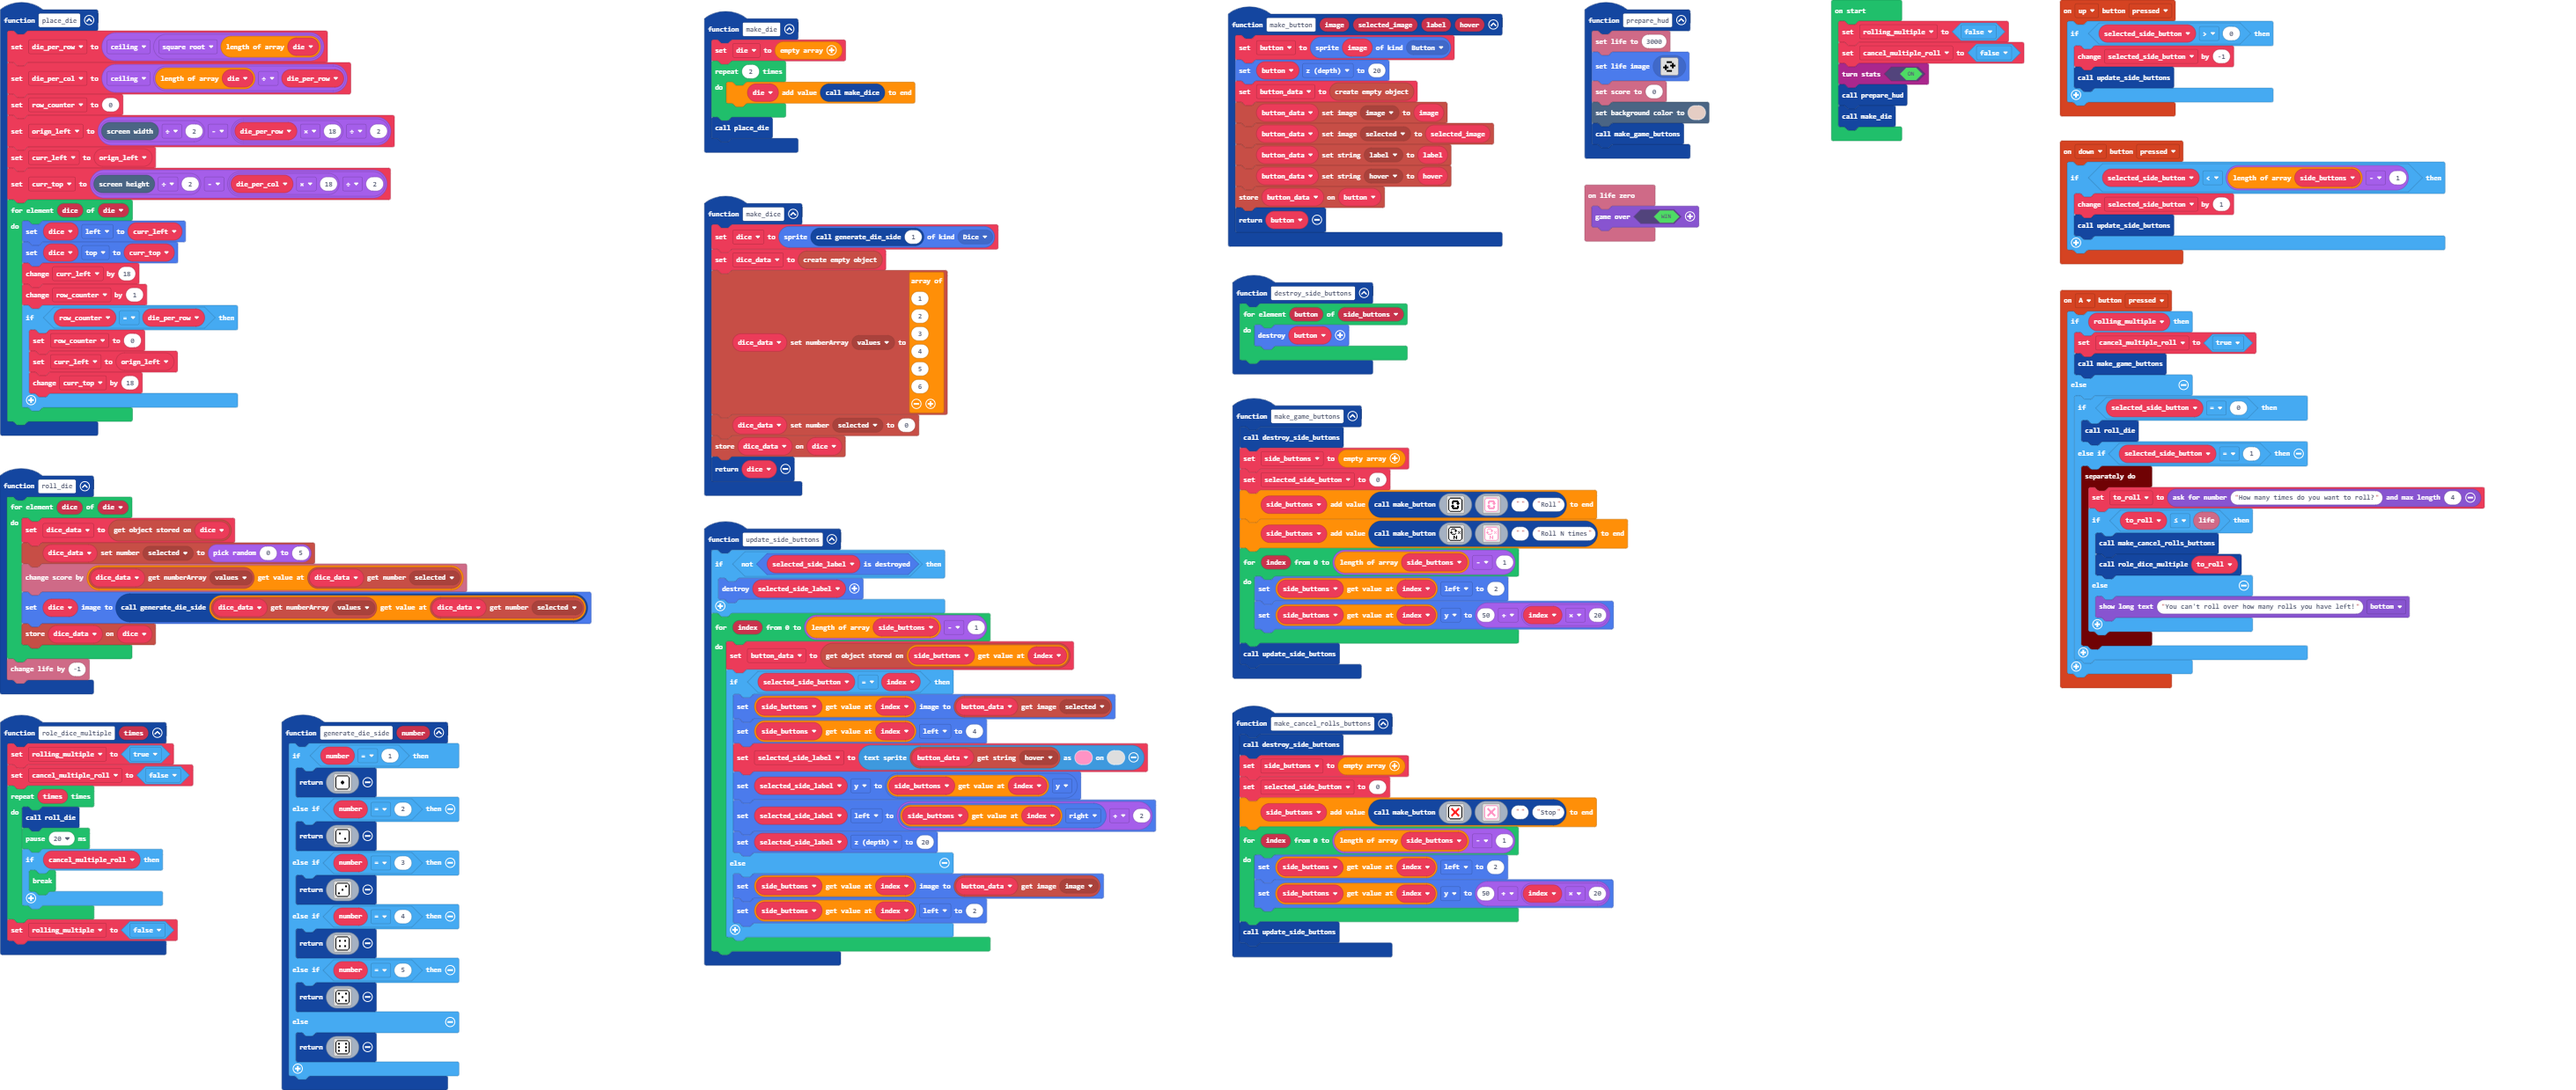
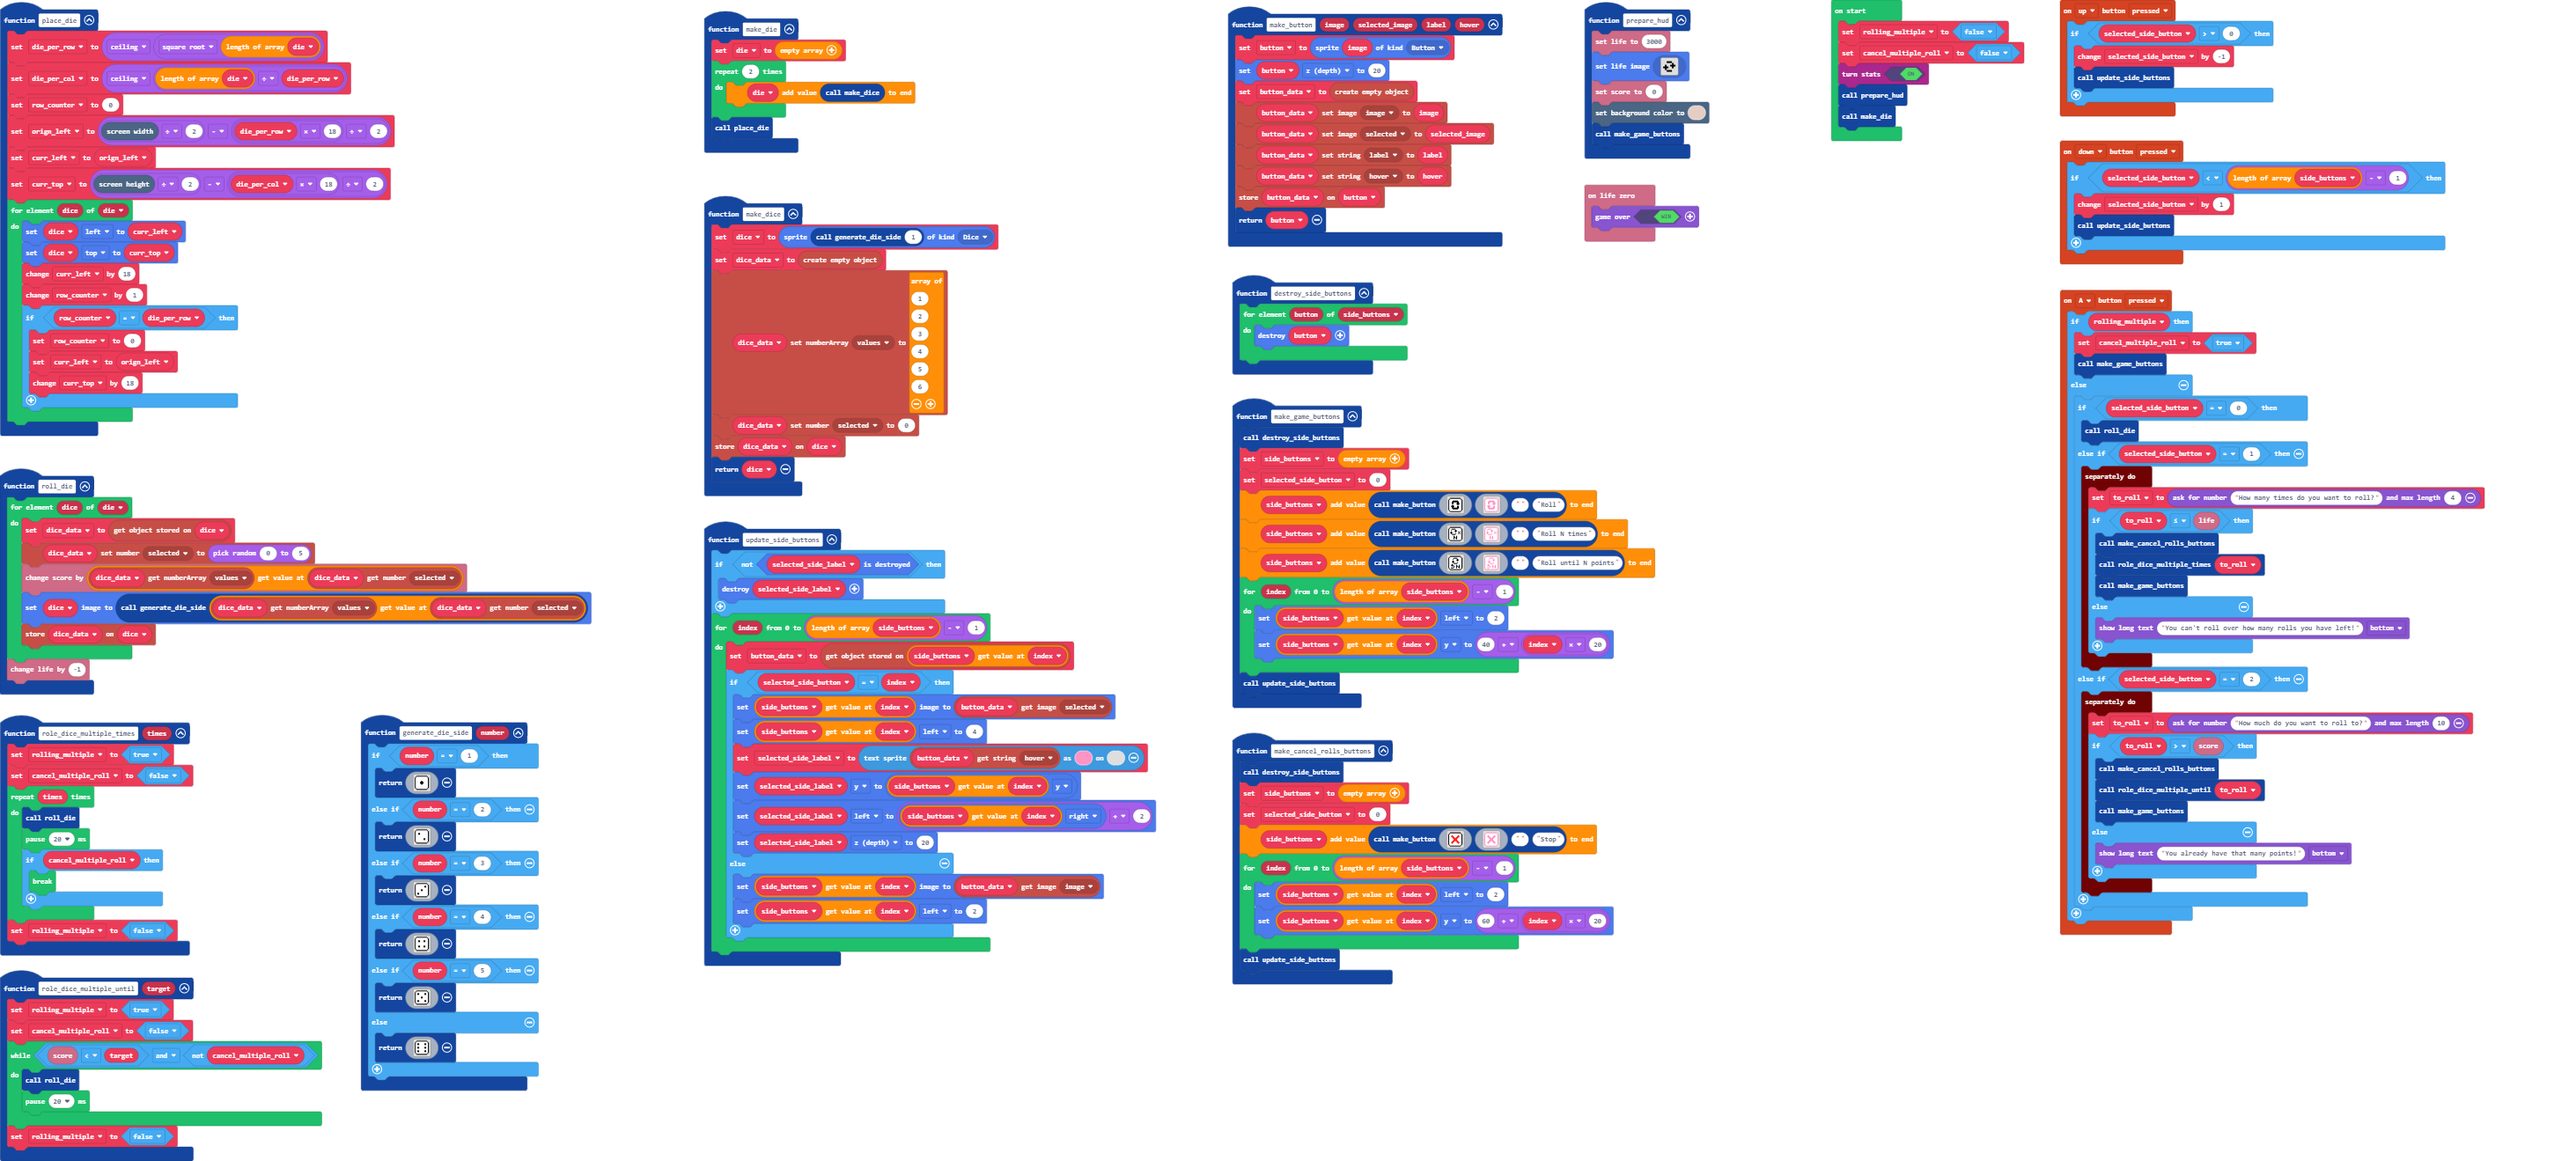
Can roll until certain point amount

Changed region(s): [[0.0, 0.0, 0.6842, 1.0], [0.7153, 0.0, 0.9641, 0.8281]]

diff --git a/main.ts b/main.ts
@@ -51,18 +51,6 @@ function roll_die () {
     }
     info.changeLifeBy(-1)
 }
-function role_dice_multiple (times: number) {
-    rolling_multiple = true
-    cancel_multiple_roll = false
-    for (let index = 0; index < times; index++) {
-        roll_die()
-        pause(20)
-        if (cancel_multiple_roll) {
-            break;
-        }
-    }
-    rolling_multiple = false
-}
 controller.A.onEvent(ControllerButtonEvent.Pressed, function () {
     if (rolling_multiple) {
         cancel_multiple_roll = true
@@ -75,9 +63,21 @@ controller.A.onEvent(ControllerButtonEvent.Pressed, function () {
                 to_roll = game.askForNumber("How many times do you want to roll?", 4)
                 if (to_roll <= info.life()) {
                     make_cancel_rolls_buttons()
-                    role_dice_multiple(to_roll)
+                    role_dice_multiple_times(to_roll)
+                    make_game_buttons()
                 } else {
                     game.showLongText("You can't roll over how many rolls you have left!", DialogLayout.Bottom)
+                }
+            })
+        } else if (selected_side_button == 2) {
+            timer.background(function () {
+                to_roll = game.askForNumber("How much do you want to roll to?", 10)
+                if (to_roll > info.score()) {
+                    make_cancel_rolls_buttons()
+                    role_dice_multiple_until(to_roll)
+                    make_game_buttons()
+                } else {
+                    game.showLongText("You already have that many points!", DialogLayout.Bottom)
                 }
             })
         }
@@ -105,7 +105,7 @@ function make_cancel_rolls_buttons () {
     side_buttons.push(make_button(assets.image`cancel_rolls_button`, assets.image`cancel_rolls_selected_button`, "", "Stop"))
     for (let index = 0; index <= side_buttons.length - 1; index++) {
         side_buttons[index].left = 2
-        side_buttons[index].y = 50 + index * 20
+        side_buttons[index].y = 60 + index * 20
     }
     update_side_buttons()
 }
@@ -115,9 +115,10 @@ function make_game_buttons () {
     selected_side_button = 0
     side_buttons.push(make_button(assets.image`roll_button`, assets.image`roll_button_selected`, "", "Roll"))
     side_buttons.push(make_button(assets.image`roll_x_times_button`, assets.image`roll_x_times_button_selected`, "", "Roll N times"))
+    side_buttons.push(make_button(assets.image`roll_until_button`, assets.image`roll_until_button_selected`, "", "Roll until N points"))
     for (let index = 0; index <= side_buttons.length - 1; index++) {
         side_buttons[index].left = 2
-        side_buttons[index].y = 50 + index * 20
+        side_buttons[index].y = 40 + index * 20
     }
     update_side_buttons()
 }
@@ -127,6 +128,18 @@ function prepare_hud () {
     info.setScore(0)
     scene.setBackgroundColor(13)
     make_game_buttons()
+}
+function role_dice_multiple_times (times: number) {
+    rolling_multiple = true
+    cancel_multiple_roll = false
+    for (let index = 0; index < times; index++) {
+        roll_die()
+        pause(20)
+        if (cancel_multiple_roll) {
+            break;
+        }
+    }
+    rolling_multiple = false
 }
 function make_die () {
     die = []
@@ -172,6 +185,15 @@ controller.down.onEvent(ControllerButtonEvent.Pressed, function () {
         update_side_buttons()
     }
 })
+function role_dice_multiple_until (target: number) {
+    rolling_multiple = true
+    cancel_multiple_roll = false
+    while (info.score() < target && !(cancel_multiple_roll)) {
+        roll_die()
+        pause(20)
+    }
+    rolling_multiple = false
+}
 info.onLifeZero(function () {
     game.over(true)
 })

diff --git a/images.g.ts b/images.g.ts
@@ -261,6 +261,44 @@ f 1 1 1 1 1 1 1 1 1 1 1 1 1 1 f
 . 3 1 1 1 1 1 1 1 1 1 1 1 1 3 . 
 . . 3 3 3 3 3 3 3 3 3 3 3 3 . . 
 `;
+            case "image15":
+            case "roll_until_button":return img`
+. . f f f f f f f f f f f f . . 
+. f 1 1 1 1 1 1 1 1 1 1 1 1 f . 
+f 1 1 1 1 1 f f f f 1 1 1 1 1 f 
+f 1 1 1 1 f 1 1 1 1 f 1 1 1 1 f 
+f 1 1 1 1 1 1 1 1 f f f 1 1 1 f 
+f 1 1 1 1 f 1 1 1 1 f 1 1 1 1 f 
+f 1 1 1 f f f 1 1 1 1 1 1 1 1 f 
+f 1 1 1 1 f 1 1 1 1 f 1 1 1 1 f 
+f 1 1 1 1 1 f f f f 1 1 1 1 1 f 
+f 1 1 1 f 1 1 1 1 1 1 1 1 1 1 f 
+f 1 1 f f f 1 1 1 f 1 1 f 1 1 f 
+f 1 1 1 f 1 f 1 1 f f 1 f 1 1 f 
+f 1 1 1 1 1 f 1 1 f 1 f f 1 1 f 
+f 1 1 f f f 1 1 1 f 1 1 f 1 1 f 
+. f 1 1 1 1 1 1 1 1 1 1 1 1 f . 
+. . f f f f f f f f f f f f . . 
+`;
+            case "image16":
+            case "roll_until_button_selected":return img`
+. . 3 3 3 3 3 3 3 3 3 3 3 3 . . 
+. 3 1 1 1 1 1 1 1 1 1 1 1 1 3 . 
+3 1 1 1 1 1 3 3 3 3 1 1 1 1 1 3 
+3 1 1 1 1 3 1 1 1 1 3 1 1 1 1 3 
+3 1 1 1 1 1 1 1 1 3 3 3 1 1 1 3 
+3 1 1 1 1 3 1 1 1 1 3 1 1 1 1 3 
+3 1 1 1 3 3 3 1 1 1 1 1 1 1 1 3 
+3 1 1 1 1 3 1 1 1 1 3 1 1 1 1 3 
+3 1 1 1 1 1 3 3 3 3 1 1 1 1 1 3 
+3 1 1 1 3 1 1 1 1 1 1 1 1 1 1 3 
+3 1 1 3 3 3 1 1 1 3 1 1 3 1 1 3 
+3 1 1 1 3 1 3 1 1 3 3 1 3 1 1 3 
+3 1 1 1 1 1 3 1 1 3 1 3 3 1 1 3 
+3 1 1 3 3 3 1 1 1 3 1 1 3 1 1 3 
+. 3 1 1 1 1 1 1 1 1 1 1 1 1 3 . 
+. . 3 3 3 3 3 3 3 3 3 3 3 3 . . 
+`;
         }
         return null;
     })
